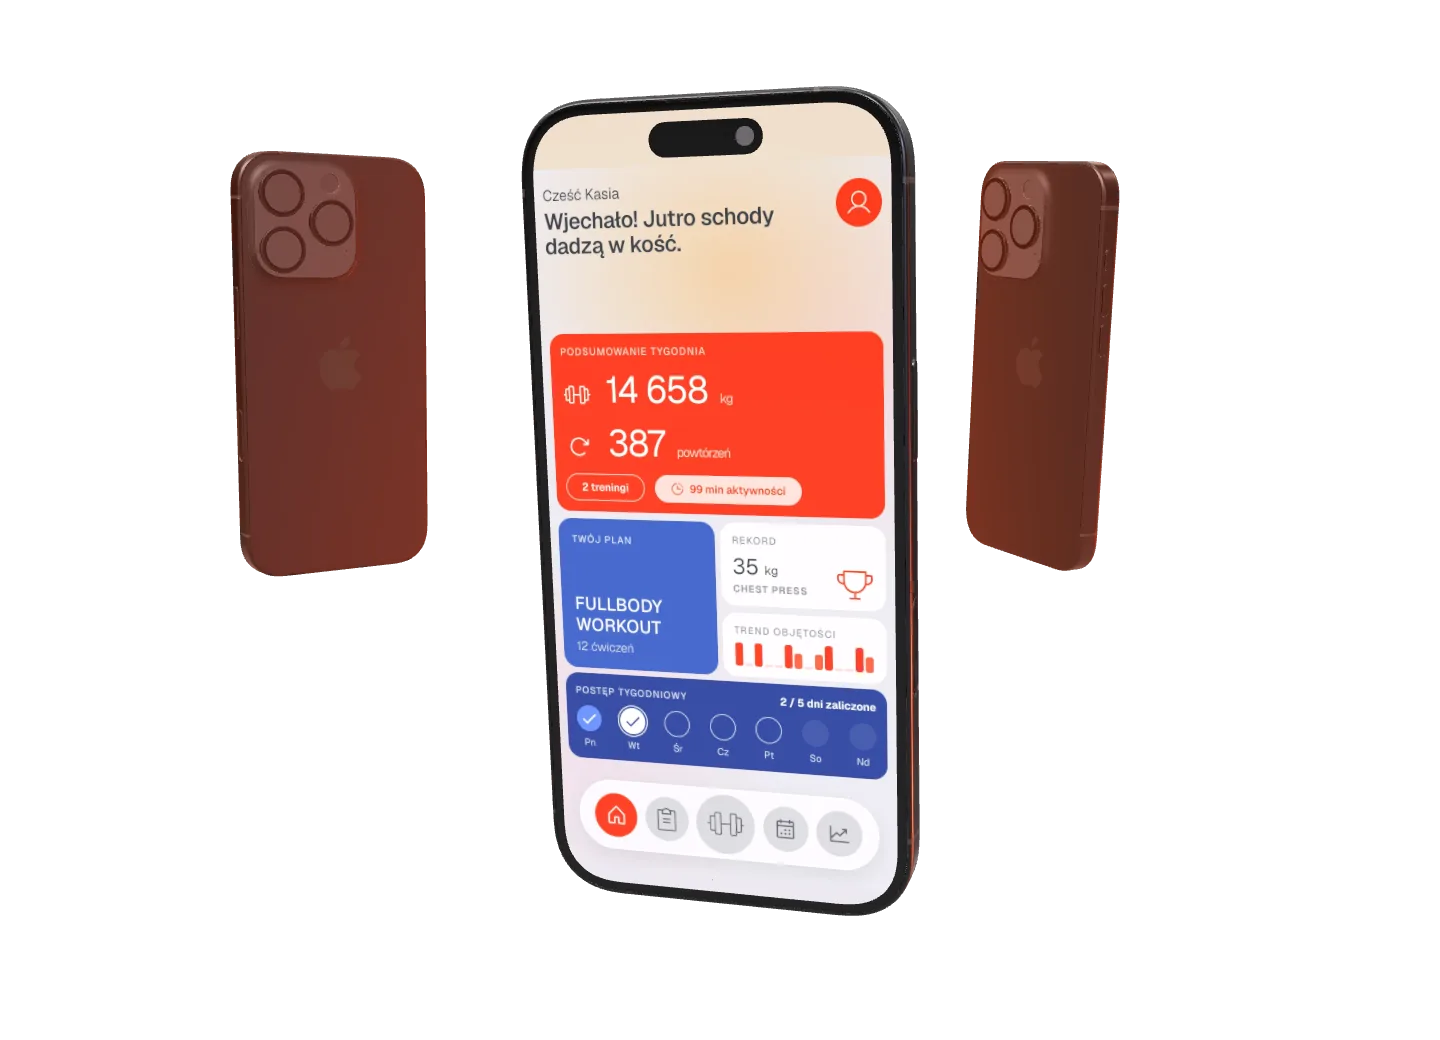
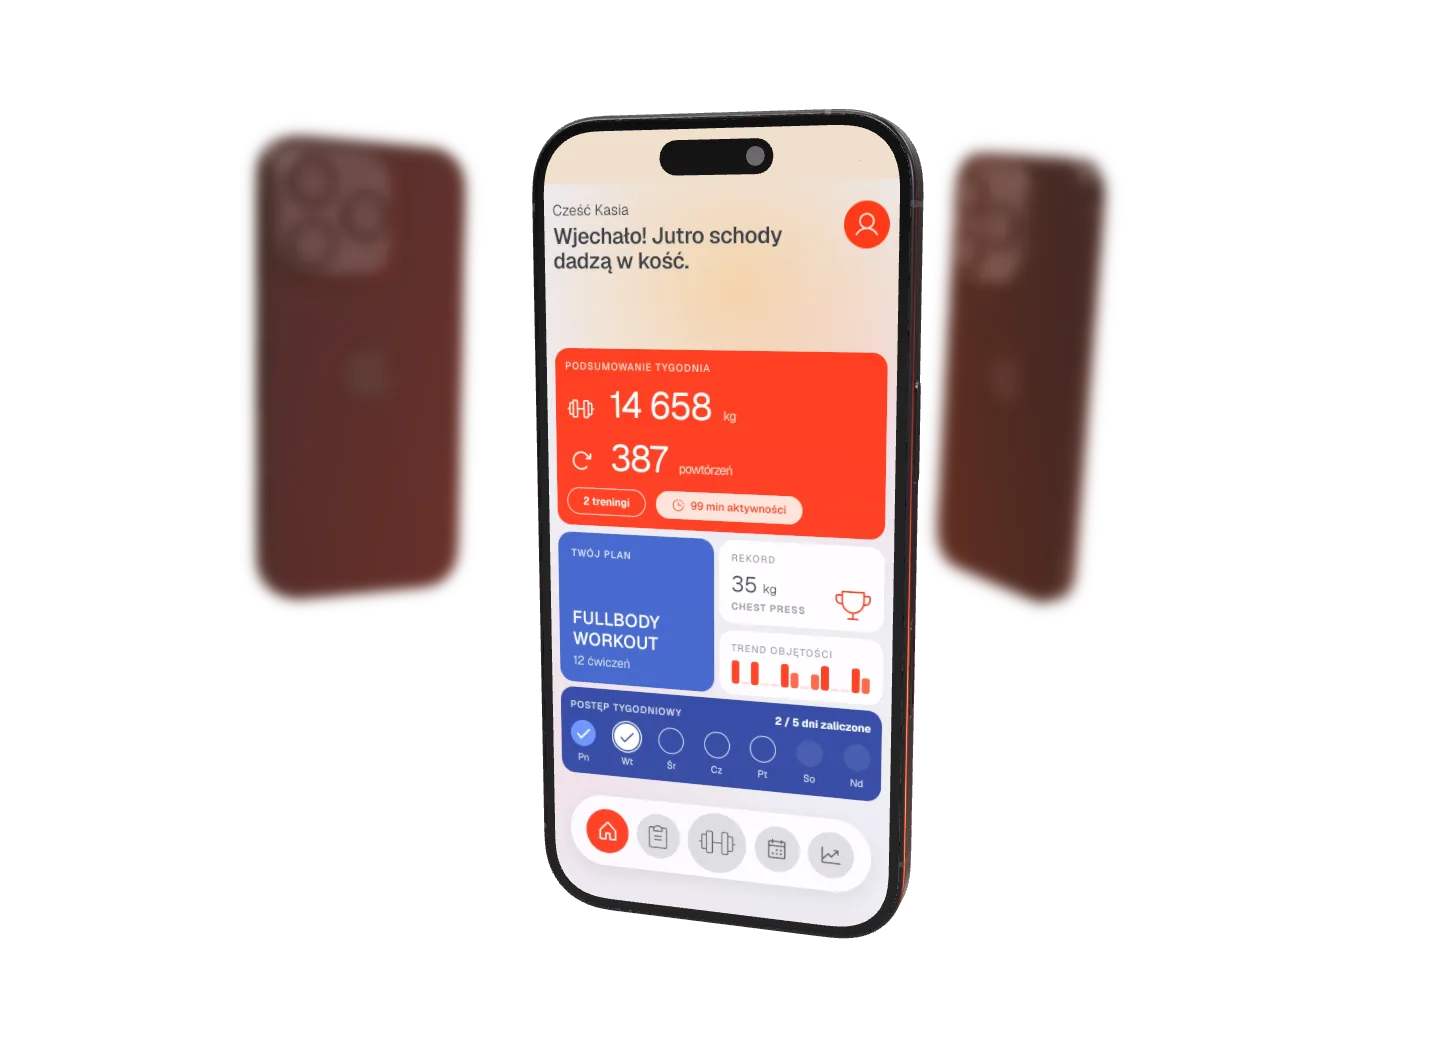
Landing hero: orbita na przeciąganie, rozmycie telefonów z tyłu, mniejszy promień, lewitowanie, bez autoobrotu

Changed region(s): [[0.1562, 0.0615, 0.7812, 0.9231]]

diff --git a/landing/index.html b/landing/index.html
@@ -208,6 +208,9 @@ section{position:relative;}
    render and the live canvas line up at every viewport. The front phone is centred in it, --ptop from the stage top. */
 .hero-orbit{position:absolute; z-index:2; left:50%; top:calc(var(--ptop) - var(--pw) * .275); width:calc(var(--pw) * 3.6); height:calc(var(--pw) * 2.6);
   transform:translateX(-50%); touch-action:pan-y; -webkit-user-select:none; user-select:none;}
+.hero-orbit.gl-on{cursor:grab;}
+.hero-orbit.dragging{cursor:grabbing;}
+.hero-orbit .gl-canvas{will-change:filter;}   /* one canvas per phone: the ones going back get a CSS blur */
 .hero-orbit .gl-canvas,.hero-orbit .orbit-poster{position:absolute; inset:0; width:100%; height:100%;}
 .hero-orbit .orbit-poster{object-fit:contain; -webkit-user-drag:none;}
 .hero-copy{
@@ -585,7 +588,7 @@ details > div{padding:0 60px 26px 0; color:var(--m-muted); font-size:16px;}
       <div class="hero-giant" aria-hidden="true"><span class="l1">każda seria</span><span class="l2"><span>jest</span><span>ważna</span></span></div>
       <div class="hero-orbit" id="heroOrbit" data-screens="img/scr-dashboard.webp img/scr-gym.webp img/scr-stats.webp">
         <img class="orbit-poster gl-poster" src="img/r-orbit.webp" alt="Trzy iPhone'y z aplikacją Mekkio: pulpit z podsumowaniem tygodnia i planem na dziś, ekran treningu z ćwiczeniami z planu oraz statystyki z rekordami" width="1440" height="1040" fetchpriority="high">
-        <canvas class="gl-canvas" id="heroGL" aria-hidden="true"></canvas>
+        <canvas class="gl-canvas" aria-hidden="true"></canvas><canvas class="gl-canvas" aria-hidden="true"></canvas><canvas class="gl-canvas" aria-hidden="true"></canvas>
       </div>
     </div>
 
@@ -1118,87 +1121,103 @@ document.documentElement.classList.add('js');
   var cssVar = function(el, name, def){ var s = parseFloat(el.style.getPropertyValue(name)); return isNaN(s) ? def : s; };
 
   /* HERO — three phones on an invisible, slightly tilted orbit. Each faces outward, so only the front one shows
-     its screen. Mouse movement turns the orbit (relative, like dragging without a click); when the mouse stops,
-     the nearest phone is pulled to the front. Touch: swipe. Idle for a few seconds: the next phone comes round. */
+     its screen. Drag (mouse or finger) turns the orbit; on release it lands on the nearest phone, with the
+     throw's momentum. No automatic rotation. Each phone has its own canvas so the ones going back can be
+     blurred (CSS filter) and stacked by depth. */
   (async function(){
-    var hero = document.getElementById('hero'), box = document.getElementById('heroOrbit'), canvas = document.getElementById('heroGL');
-    if(!box || !canvas) return;
+    var hero = document.getElementById('hero'), box = document.getElementById('heroOrbit');
+    if(!box) return;
+    var canvases = box.querySelectorAll('canvas'), srcs = box.dataset.screens.split(' ');
     var D = Math.PI / 180;
     var ANG = [0, 135 * D, 235 * D];                        // uneven gaps on the orbit: 135° / 100° / 125°
-    var srcs = box.dataset.screens.split(' ');
-    var v = makeView(canvas); v.cam.fov = 36; v.fit();      // wider lens than the other views: stronger depth on the orbit
-    var phones = await Promise.all(srcs.map(function(s){ return makePhone(s); }));
-    var orbit = new THREE.Group(); phones.forEach(function(p){ orbit.add(p.pivot); }); v.scene.add(orbit);
-    v.scene.fog = new THREE.Fog(0xee4a1c, 1, 2);            // back phones sink into the hero's orange
+    var items = await Promise.all(srcs.map(async function(src, i){
+      var v = makeView(canvases[i]); v.cam.fov = 36; v.fit();   // wider lens than the other views: stronger depth
+      var ph = await makePhone(src), orbit = new THREE.Group();
+      orbit.add(ph.pivot); v.scene.add(orbit);
+      v.scene.fog = new THREE.Fog(0xee4a1c, 1, 2);          // back phones also sink into the hero's orange
+      return { v: v, ph: ph, orbit: orbit, canvas: canvases[i], blur: -1, z: -1 };
+    }));
 
-    var phi = 0, target = 0, rate = 2.6;                    // orbit angle; starts on the poster pose so the cross-fade has no ghosting
-    var tilt = { x: 0, y: 0 }, tiltT = { x: 0, y: 0 }, scrollTurn = 0, lastT = 0, lastInput = performance.now();
-    var settleTimer = 0, AUTO_MS = 4200;
-    function fronts(){ return ANG.map(function(a){ return -a; }); }
-    // the orbit angle (in any turn) that brings a phone to the front, closest to `from`
-    function nearest(from){
+    var phi = 0, target = 0, rate = 5;                      // orbit angle (starts on the poster pose: no ghosting on the cross-fade)
+    var tilt = { x: 0, y: 0 }, tiltT = { x: 0, y: 0 }, scrollTurn = 0, lastT = 0;
+    function nearest(from){                                 // orbit angle (in any turn) that brings a phone to the front
       var best = 0, bd = 1e9;
-      fronts().forEach(function(f){ var c = f + Math.round((from - f) / (2 * Math.PI)) * 2 * Math.PI, d = Math.abs(c - from); if(d < bd){ bd = d; best = c; } });
+      ANG.forEach(function(a){ var f = -a, c = f + Math.round((from - f) / (2 * Math.PI)) * 2 * Math.PI, d = Math.abs(c - from); if(d < bd){ bd = d; best = c; } });
       return best;
     }
-    function nextFront(from){                               // next phone comes round from the right (angle decreases)
-      var best = -1e9;
-      fronts().forEach(function(f){ for(var n = -2; n <= 2; n++){ var c = f + n * 2 * Math.PI; if(c < from - .05 && c > best) best = c; } });
-      return best;
-    }
-    function settle(){ target = nearest(target); rate = 5; }
-    function touched(){ lastInput = performance.now(); }
 
-    if(fine){
-      var lx = null;
+    // drag: the orbit follows the pointer 1:1, then lands on a phone with the throw's momentum
+    var drag = null, K = function(){ return 4 / Math.max(innerWidth, 600); };
+    box.addEventListener('pointerdown', function(e){
+      if(e.button > 0) return;
+      drag = { x: e.clientX, y: e.clientY, start: target, axis: e.pointerType === 'mouse' ? 'x' : null, vx: 0, px: e.clientX, pt: e.timeStamp, id: e.pointerId };
+      if(e.pointerType === 'mouse'){ e.preventDefault(); box.setPointerCapture(e.pointerId); box.classList.add('dragging'); }
+    });
+    box.addEventListener('pointermove', function(e){
+      if(!drag || e.pointerId !== drag.id) return;
+      var dx = e.clientX - drag.x, dy = e.clientY - drag.y;
+      if(!drag.axis && Math.abs(dx) + Math.abs(dy) > 8){
+        drag.axis = Math.abs(dx) > Math.abs(dy) ? 'x' : 'y';
+        if(drag.axis === 'x') box.setPointerCapture(e.pointerId);
+      }
+      if(drag.axis !== 'x') return;
+      var dt = Math.max(1, e.timeStamp - drag.pt);
+      drag.vx = drag.vx * .6 + (e.clientX - drag.px) / dt * .4; drag.px = e.clientX; drag.pt = e.timeStamp;
+      target = drag.start + dx * K(); rate = 16;
+    });
+    function release(e){
+      if(!drag || (e && e.pointerId !== drag.id)) return;
+      if(drag.axis === 'x'){
+        var fresh = e && e.timeStamp - drag.pt < 80 ? drag.vx : 0;      // a pause before letting go = no throw
+        target = nearest(target + fresh * 220 * K()); rate = 5;
+      }
+      drag = null; box.classList.remove('dragging');
+    }
+    box.addEventListener('pointerup', release); box.addEventListener('pointercancel', release);
+    box.addEventListener('lostpointercapture', function(){ release(); });
+
+    if(fine){                                               // gentle parallax tilt only, no turning
       hero.addEventListener('pointermove', function(e){
         if(e.pointerType !== 'mouse') return;
-        if(lx !== null){ target += (e.clientX - lx) * 3.2 / innerWidth; rate = 9; }
-        lx = e.clientX; touched();
         var r = box.getBoundingClientRect();
-        tiltT.x = Math.max(-1, Math.min(1, (e.clientY - (r.top + r.height / 2)) / (innerHeight / 2))) * .07;
-        tiltT.y = Math.max(-1, Math.min(1, (e.clientX - (r.left + r.width / 2)) / (innerWidth / 2))) * .12;
-        clearTimeout(settleTimer); settleTimer = setTimeout(settle, 160);
+        tiltT.x = Math.max(-1, Math.min(1, (e.clientY - (r.top + r.height / 2)) / (innerHeight / 2))) * .05;
+        tiltT.y = Math.max(-1, Math.min(1, (e.clientX - (r.left + r.width / 2)) / (innerWidth / 2))) * .08;
       });
-      hero.addEventListener('pointerleave', function(){ lx = null; tiltT.x = tiltT.y = 0; clearTimeout(settleTimer); settle(); });
+      hero.addEventListener('pointerleave', function(){ tiltT.x = tiltT.y = 0; });
     }
-    // swipe (touch / pen): the orbit follows the finger, then lands on a phone with the throw's momentum
-    var sx = null, sy = null, st = 0, axis = null, vx = 0, px = 0, pt = 0;
-    box.addEventListener('pointerdown', function(e){ if(e.pointerType === 'mouse') return; sx = px = e.clientX; sy = e.clientY; st = target; axis = null; vx = 0; pt = e.timeStamp; touched(); });
-    box.addEventListener('pointermove', function(e){
-      if(sx === null || e.pointerType === 'mouse') return;
-      var dx = e.clientX - sx, dy = e.clientY - sy;
-      if(!axis && Math.abs(dx) + Math.abs(dy) > 8) axis = Math.abs(dx) > Math.abs(dy) ? 'x' : 'y';
-      if(axis !== 'x') return;
-      var dt = Math.max(1, e.timeStamp - pt); vx = (e.clientX - px) / dt; px = e.clientX; pt = e.timeStamp;
-      target = st + dx * 3.2 / innerWidth; rate = 14; touched();
-    });
-    function release(){ if(sx === null) return; if(axis === 'x'){ target = nearest(target + vx * 180 * 3.2 / innerWidth); rate = 5; } sx = null; touched(); }
-    box.addEventListener('pointerup', release); box.addEventListener('pointercancel', release);
+    addEventListener('scroll', function(){ var r = hero.getBoundingClientRect(); scrollTurn = Math.max(0, Math.min(1, -r.top / r.height)) * .6; }, { passive: true });
 
-    addEventListener('scroll', function(){ var r = hero.getBoundingClientRect(); scrollTurn = Math.max(0, Math.min(1, -r.top / r.height)) * .7; }, { passive: true });
-
-    v.update = function(t){
+    // the first view drives the shared motion; every view then places its own phone
+    items[0].v.update = function(t){
       var dt = Math.min(.05, lastT ? t - lastT : 0); lastT = t;
-      if(performance.now() - lastInput > AUTO_MS && sx === null && !document.hidden){ target = nextFront(nearest(target)); rate = 2.4; touched(); }
       phi += (target - phi) * (1 - Math.exp(-dt * rate));
       tilt.x += (tiltT.x - tilt.x) * (1 - Math.exp(-dt * 4)); tilt.y += (tiltT.y - tilt.y) * (1 - Math.exp(-dt * 4));
-
-      var k = v.pxToWorld, pw = box.clientWidth / 3.6, H = pw * 2.05, RX = H * 1.15, R = H * 1.25, TILT = .19 + tilt.x;   // oval: deeper than wide
-      // orbit centre sits R behind the front phone; lift it so the front phone stays centred after the tilt
-      orbit.position.set(0, R * Math.sin(TILT) * k, (-R + R * (1 - Math.cos(TILT))) * k);
-      orbit.rotation.set(TILT, tilt.y, 0);
-      var a0 = phi + scrollTurn;
-      phones.forEach(function(p, i){
-        var ang = ANG[i] + a0;
-        p.pivot.position.set(Math.sin(ang) * RX * k, Math.sin(t * 1.1 + i * 2.1) * H * .008 * k, Math.cos(ang) * R * k);
-        p.pivot.rotation.set(0, ang - .3, .03);              // faces outward, turned a little: 3/4 view at the front
-        sizePhone(v, p, H);
-      });
-      var near = v.cam.position.z;                          // fog: nothing at the front, ~half at the back of the orbit
-      v.scene.fog.near = near + R * .2 * k; v.scene.fog.far = near + R * 2 * k / .5;
+      place(t);
     };
-    v.fit(); v.update(0); v.r.render(v.scene, v.cam);
+    function place(t){
+      var pw = box.clientWidth / 3.6, H = pw * 2.05, RX = H * .98, R = H * 1.05, TILT = .19 + tilt.x;   // oval: deeper than wide
+      var a0 = phi + scrollTurn, maxBlur = pw * .02;
+      items.forEach(function(it, i){
+        var k = it.v.pxToWorld, ang = ANG[i] + a0;
+        // orbit centre sits R behind the front phone, lifted so the front phone stays centred after the tilt
+        it.orbit.position.set(0, R * Math.sin(TILT) * k, (-R + R * (1 - Math.cos(TILT))) * k);
+        it.orbit.rotation.set(TILT, tilt.y, 0);
+        // levitation: each phone floats on its own slow rhythm, with a slight sway
+        var fl = t * 1.25 + i * 2.1;
+        it.ph.pivot.position.set(Math.sin(ang) * RX * k, Math.sin(fl) * H * .022 * k, Math.cos(ang) * R * k);
+        it.ph.pivot.rotation.set(Math.sin(fl + 1.2) * .035, ang - .3, .03 + Math.sin(fl * .8 + .5) * .03);   // faces outward, 3/4 view at the front
+        sizePhone(it.v, it.ph, H);
+        var near = it.v.cam.position.z;                     // fog: nothing at the front, ~40% at the back
+        it.v.scene.fog.near = near + R * .2 * k; it.v.scene.fog.far = near + R * 2 * k / .4;
+        // depth 0 (front) … 1 (back): blur grows as the phone goes back; nearer phones stack on top
+        var depth = (1 - Math.cos(ang)) / 2, b = Math.round(Math.max(0, depth - .08) / .92 * maxBlur * 4) / 4;
+        if(b !== it.blur){ it.blur = b; it.canvas.style.filter = b ? 'blur(' + b + 'px)' : ''; }
+        var z = 3 - Math.round(depth * 2.99);
+        if(z !== it.z){ it.z = z; it.canvas.style.zIndex = z; }
+      });
+    }
+    items.forEach(function(it){ it.v.fit(); }); place(0);
+    items.forEach(function(it){ it.v.r.render(it.v.scene, it.v.cam); });
     box.classList.add('gl-on'); kick();
   })();
 
